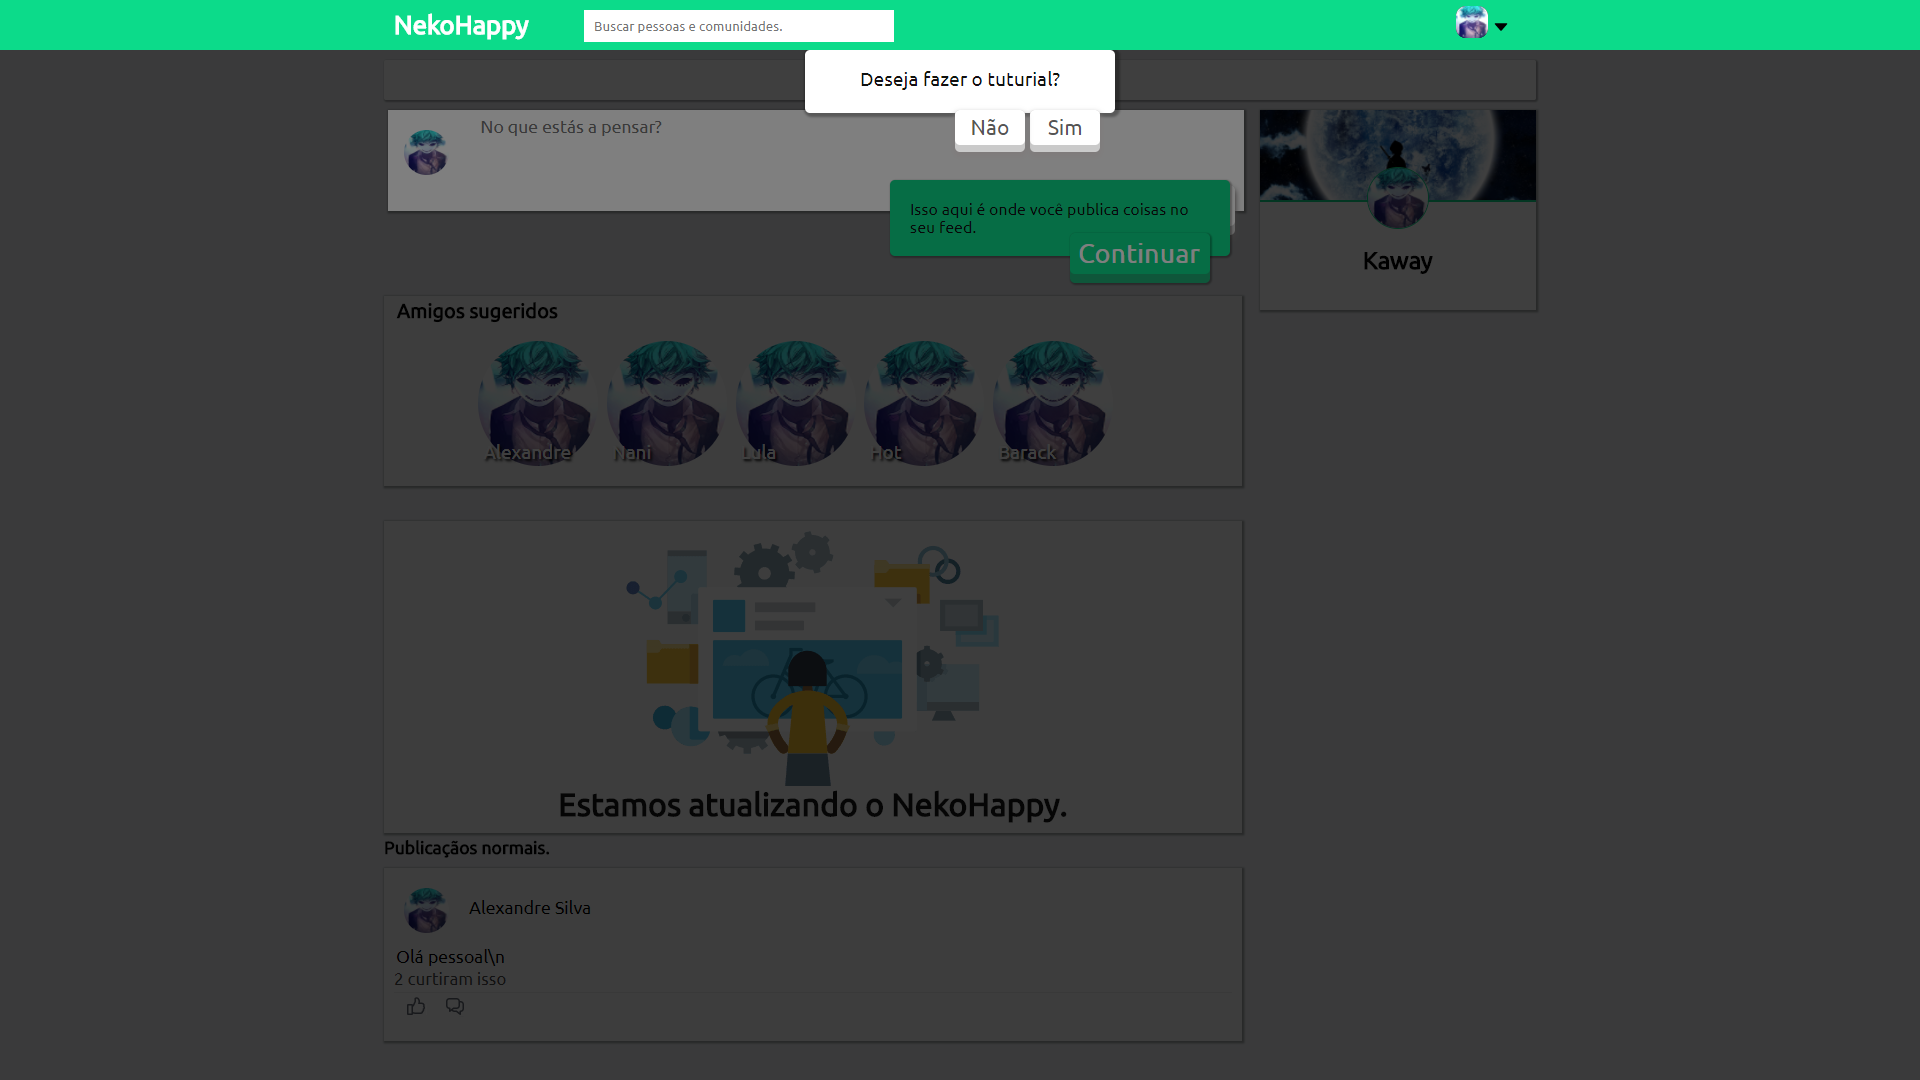
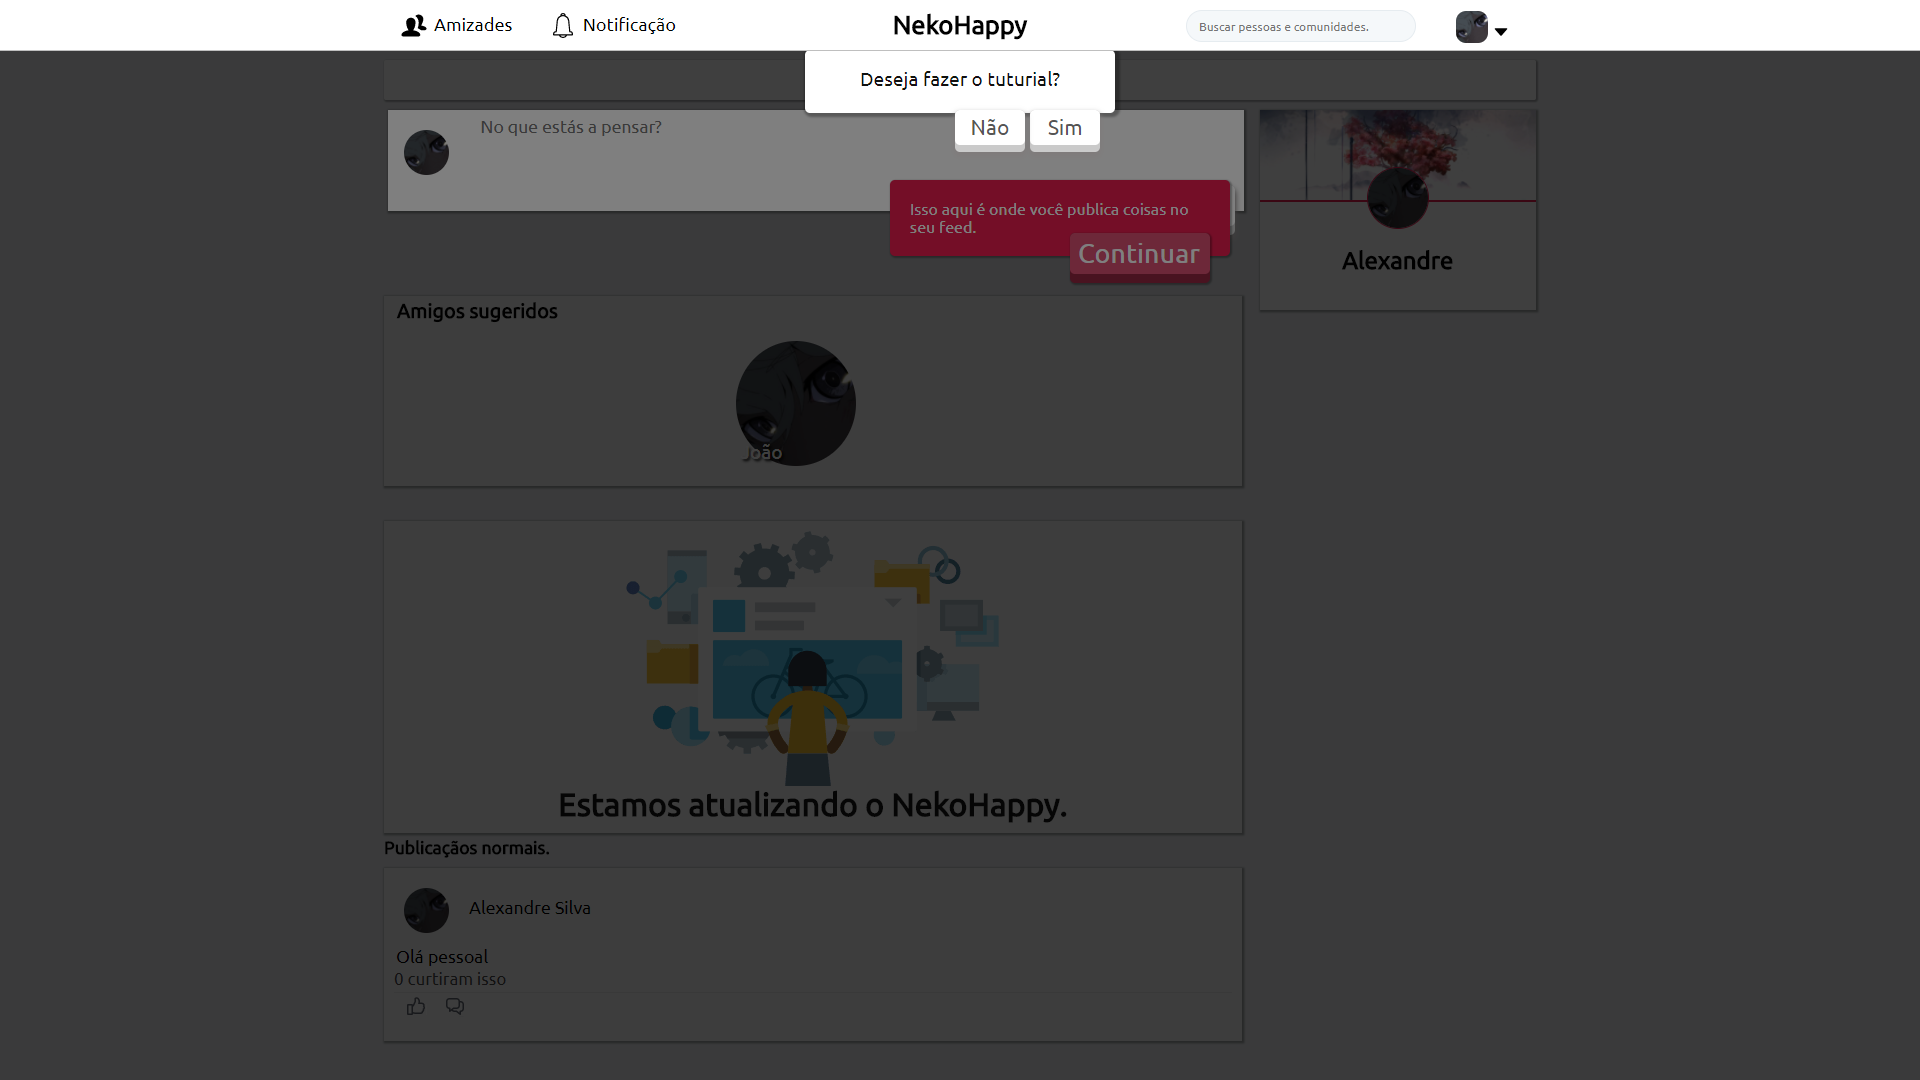
Fix layout css

diff --git a/static/css/style.css b/static/css/style.css
@@ -533,6 +533,7 @@ header #logo{
 	position: relative;
 	box-shadow: 1px 1px 1px 1px rgba(0,0,0,.30);
 	border-radius: 5px;
+	color: #fff;
 }
 
 .track2{
@@ -547,6 +548,7 @@ header #logo{
 	float: right;
 	display: none;
 	right: 0px;
+	color: #fff;
 }
 
 .track3{
@@ -561,6 +563,7 @@ header #logo{
 	display: none;
 	left: 200px;
 	float: left;
+	color: #fff;
 }
 
 .track4{
@@ -575,6 +578,7 @@ header #logo{
 	display: none;
 	right: 170px;
 	float: right;
+	color: #fff;
 }
 
 .track{
@@ -586,7 +590,7 @@ header #logo{
 }
 
 .btnb{
-	background: #E81C4F;
+	background: #da5173;
     border-radius: 5px;
    	width: 140px;
     padding: 5px 0px;
@@ -601,7 +605,7 @@ header #logo{
 }
 
 .btn-sb{
-	background: #1ead75;
+	background: #922641;
     box-shadow: 0 4px 8px 0 rgba(43,102,79,0.55);
     border-radius: 5px;
     width: 140px;
@@ -2017,6 +2021,7 @@ header #logo{
 	border-radius: 5px;
 	display: block;
 	margin: 0px auto;
+	color: #fff;
 }
 
 .eta{
